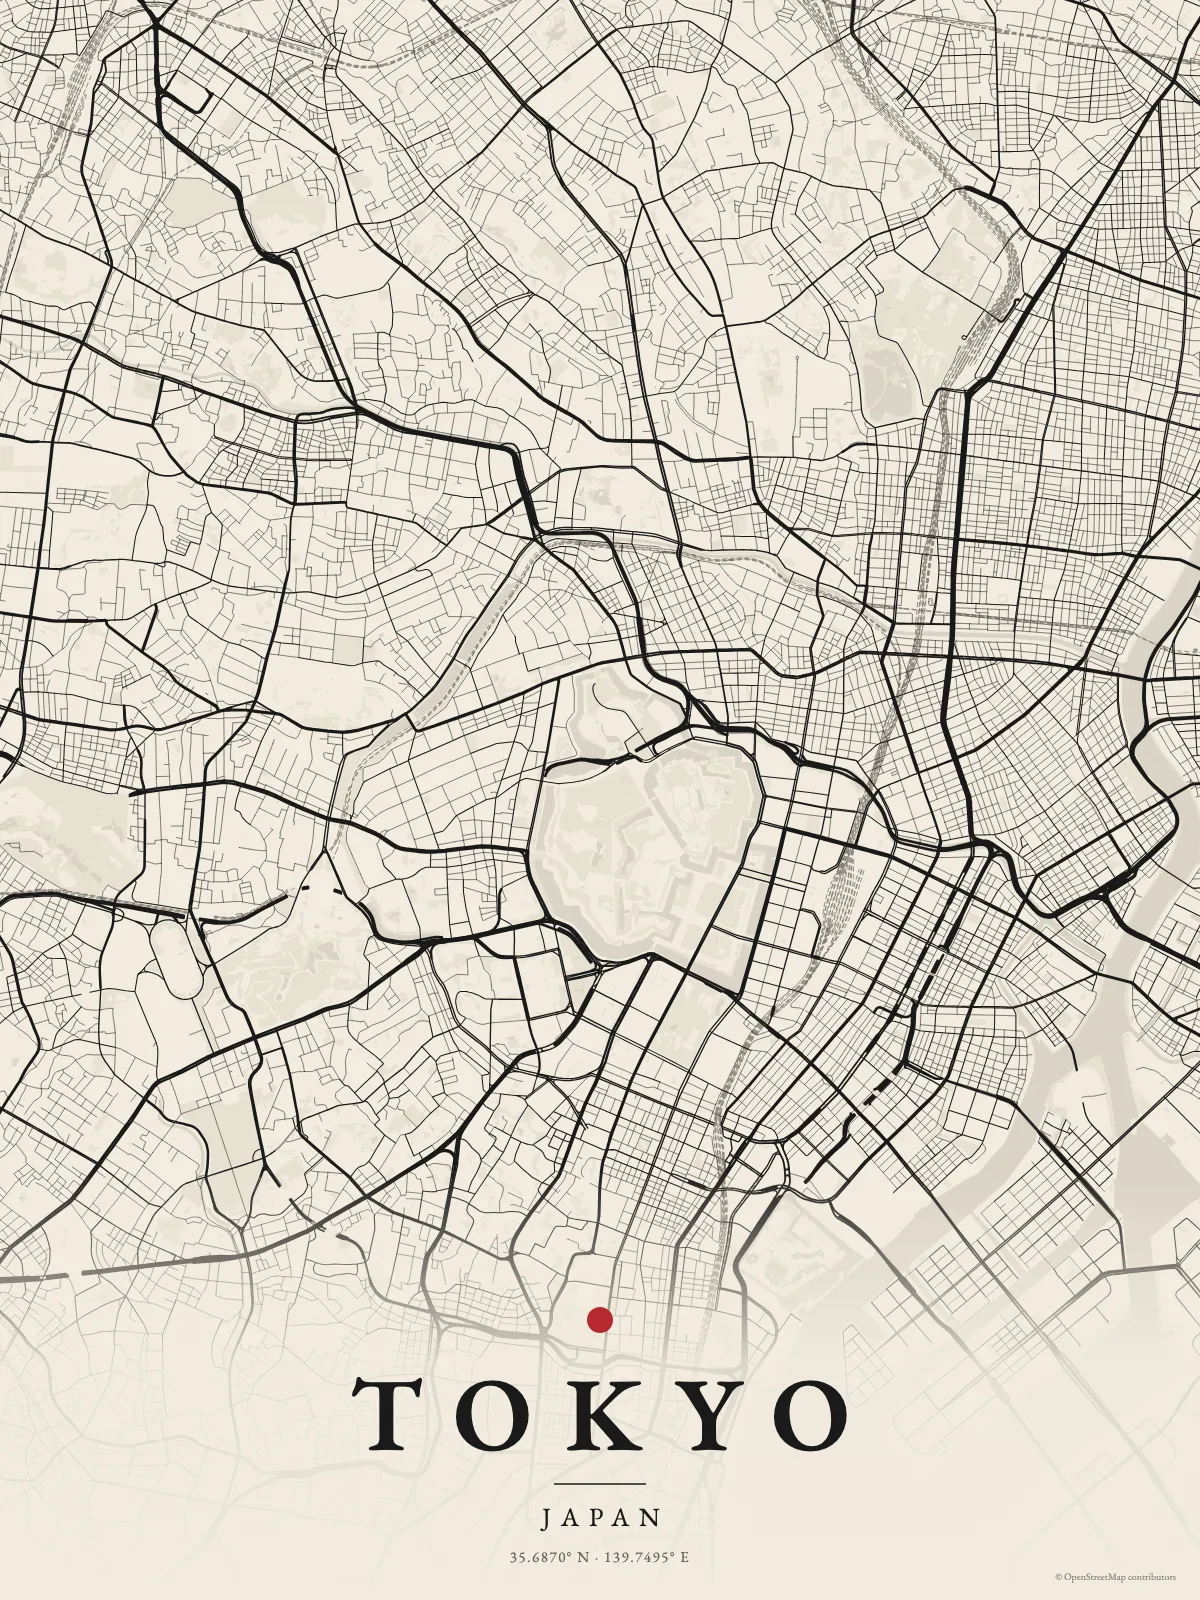
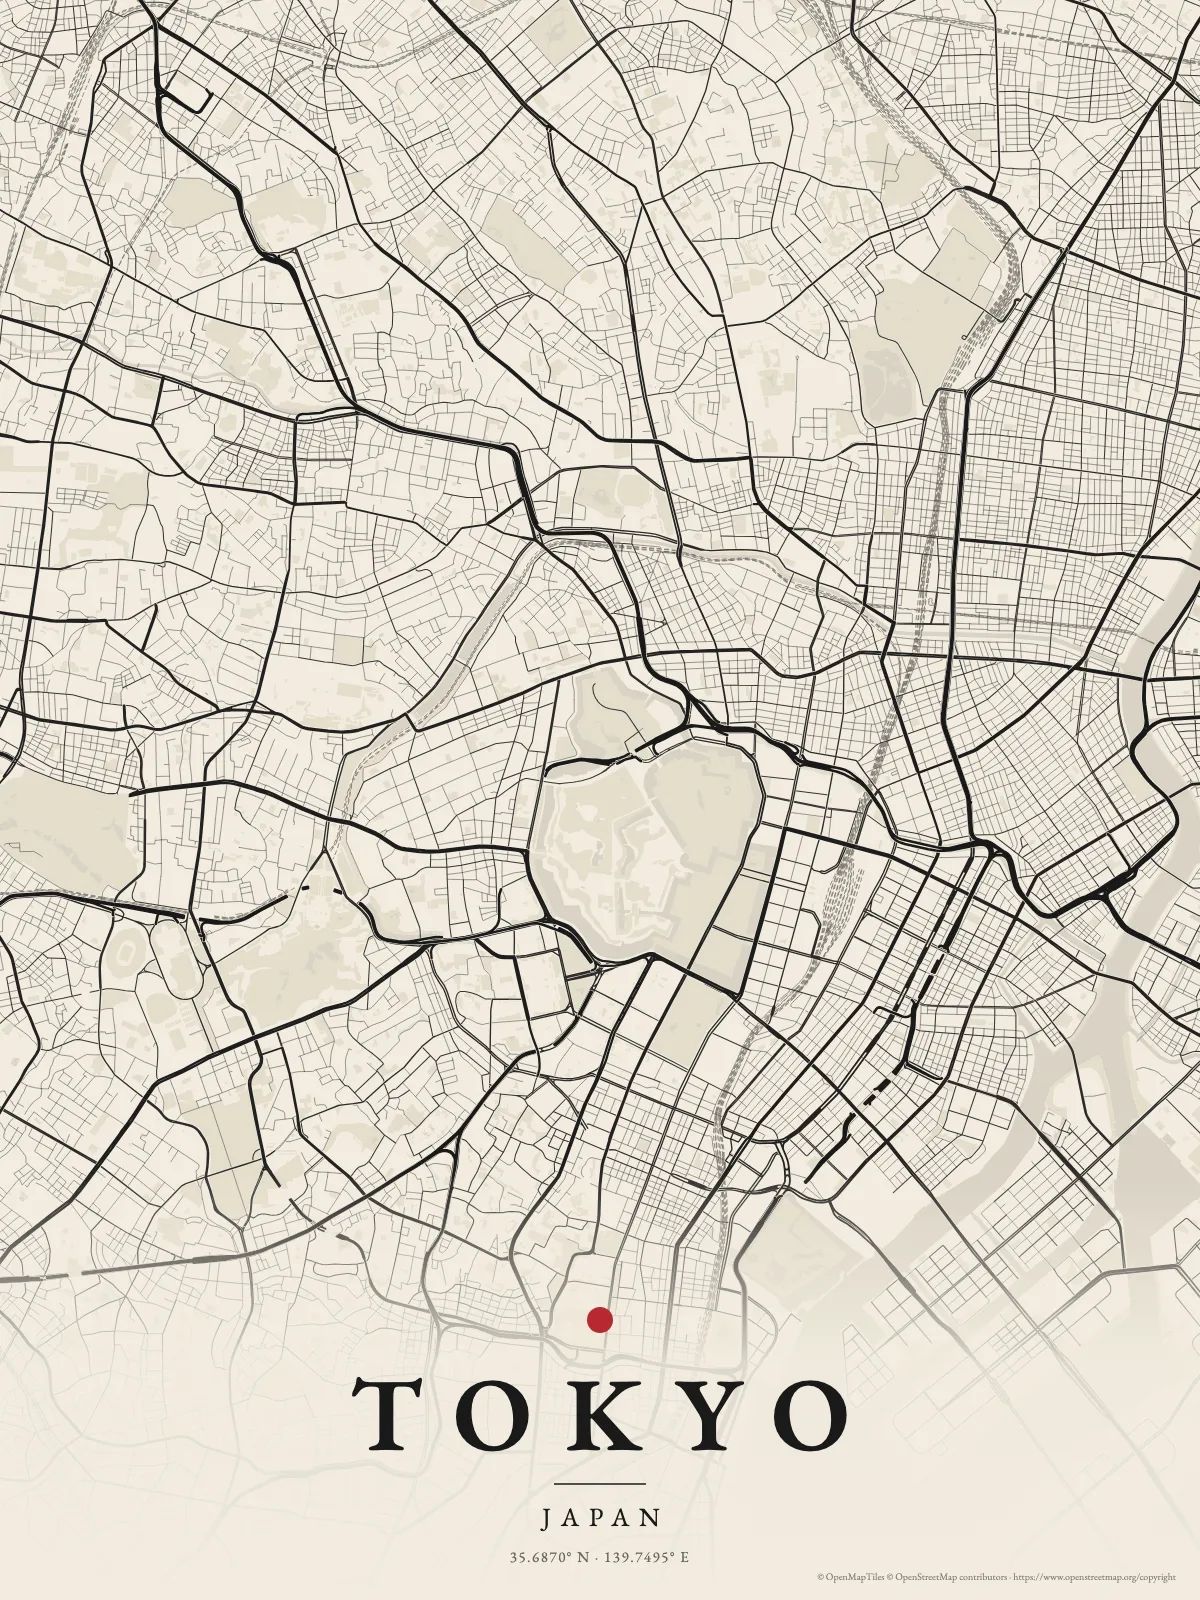
docs: refresh gallery previews and poster figures
Re-renders the six poster previews and the README hero with vector tiles. The Lisbon and Tokyo figures now describe what the renderer measures (path size and named hover targets) instead of Overpass way counts. The gallery's HTML pages include hover details. Data-map previews are unchanged.

diff --git a/README.md b/README.md
@@ -52,7 +52,7 @@ could not match is listed, so nothing is silently guessed.
 ## Why a skill
 
 A language model knows Lisbon sits on the Tagus. It does not know the shape of
-the river, or where 11,237 streets run. Ask an agent for a map without help and
+the river, or where thousands of streets run. Ask an agent for a map without help and
 you get hand-drawn blobs, invented coordinates, or Leaflet boilerplate that
 needs a tile server and an API key.
 
@@ -61,8 +61,8 @@ renderer supplies real geography and cartography.
 
 | Map | The agent writes | The renderer draws |
 | --- | --- | --- |
-| [Lisbon poster](examples/lisbon/spec.json) | a 93-byte spec | 1.6 MB of paths: 11,237 streets, the Tagus, 3,313 parks and green areas |
-| [Tokyo poster](examples/tokyo/spec.json) | 89 bytes | 2.0 MB: 15,133 streets around the Imperial Palace |
+| [Lisbon poster](examples/lisbon/spec.json) | a 93-byte spec | 1 MB of paths: every street in an 8 km frame, the Tagus and its parks, with 2,990 named streets, parks and waterways on hover |
+| [Tokyo poster](examples/tokyo/spec.json) | 89 bytes | 1.2 MB: every street around the Imperial Palace, 1,433 of them named on hover |
 | [US population change](examples/us-population-change/spec.json) | 661 bytes and a Census CSV | 50 states and DC, classed, labeled, with legend and source |
 | [Voyage of HMS Beagle](examples/beagle-voyage/spec.json) | 22 stops | great-circle legs on an equal-area projection, numbered and dated |
 
